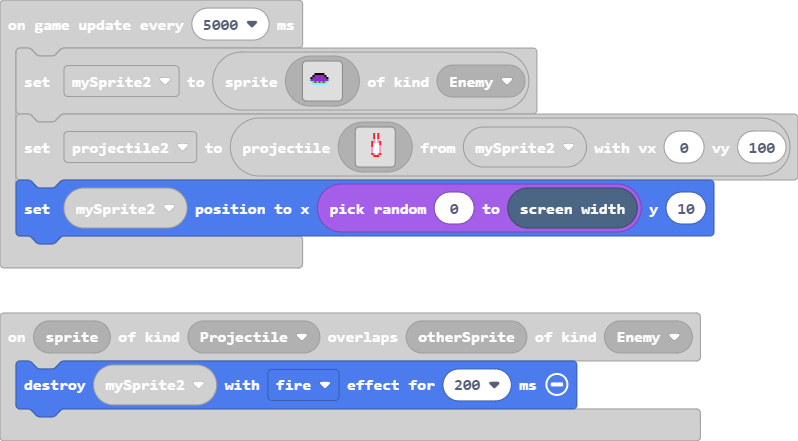
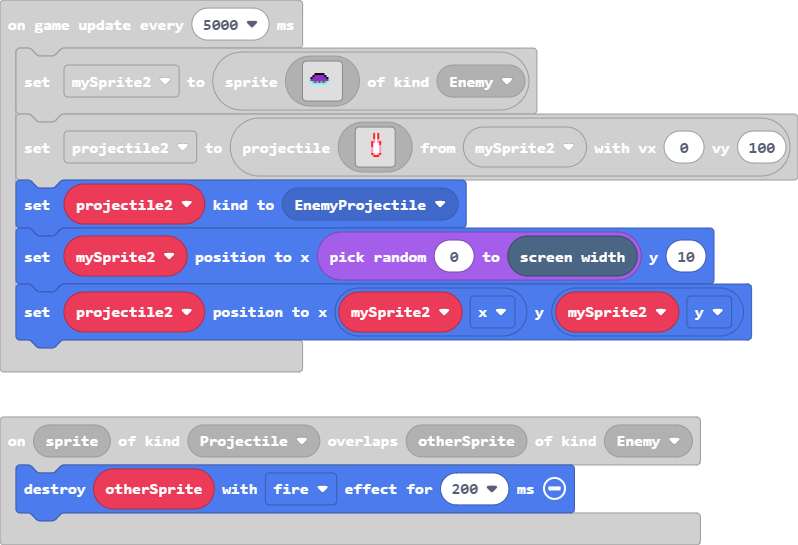
Update main.blocks, main.ts

diff --git a/main.ts b/main.ts
@@ -1,8 +1,11 @@
+namespace SpriteKind {
+    export const EnemyProjectile = SpriteKind.create()
+}
 controller.A.onEvent(ControllerButtonEvent.Pressed, function () {
     projectile = sprites.createProjectileFromSprite(assets.image`myImage`, mySprite, 0, -100)
 })
 sprites.onOverlap(SpriteKind.Projectile, SpriteKind.Enemy, function (sprite, otherSprite) {
-    mySprite2.destroy(effects.fire, 200)
+    otherSprite.destroy(effects.fire, 200)
 })
 let projectile2: Sprite = null
 let mySprite2: Sprite = null
@@ -96,5 +99,7 @@ game.onUpdateInterval(5000, function () {
         . . . . . . . . . . . . . . . . 
         . . . . . . . . . . . . . . . . 
         `, mySprite2, 0, 100)
+    projectile2.setKind(SpriteKind.EnemyProjectile)
     mySprite2.setPosition(randint(0, scene.screenWidth()), 10)
+    projectile2.setPosition(mySprite2.x, mySprite2.y)
 })
